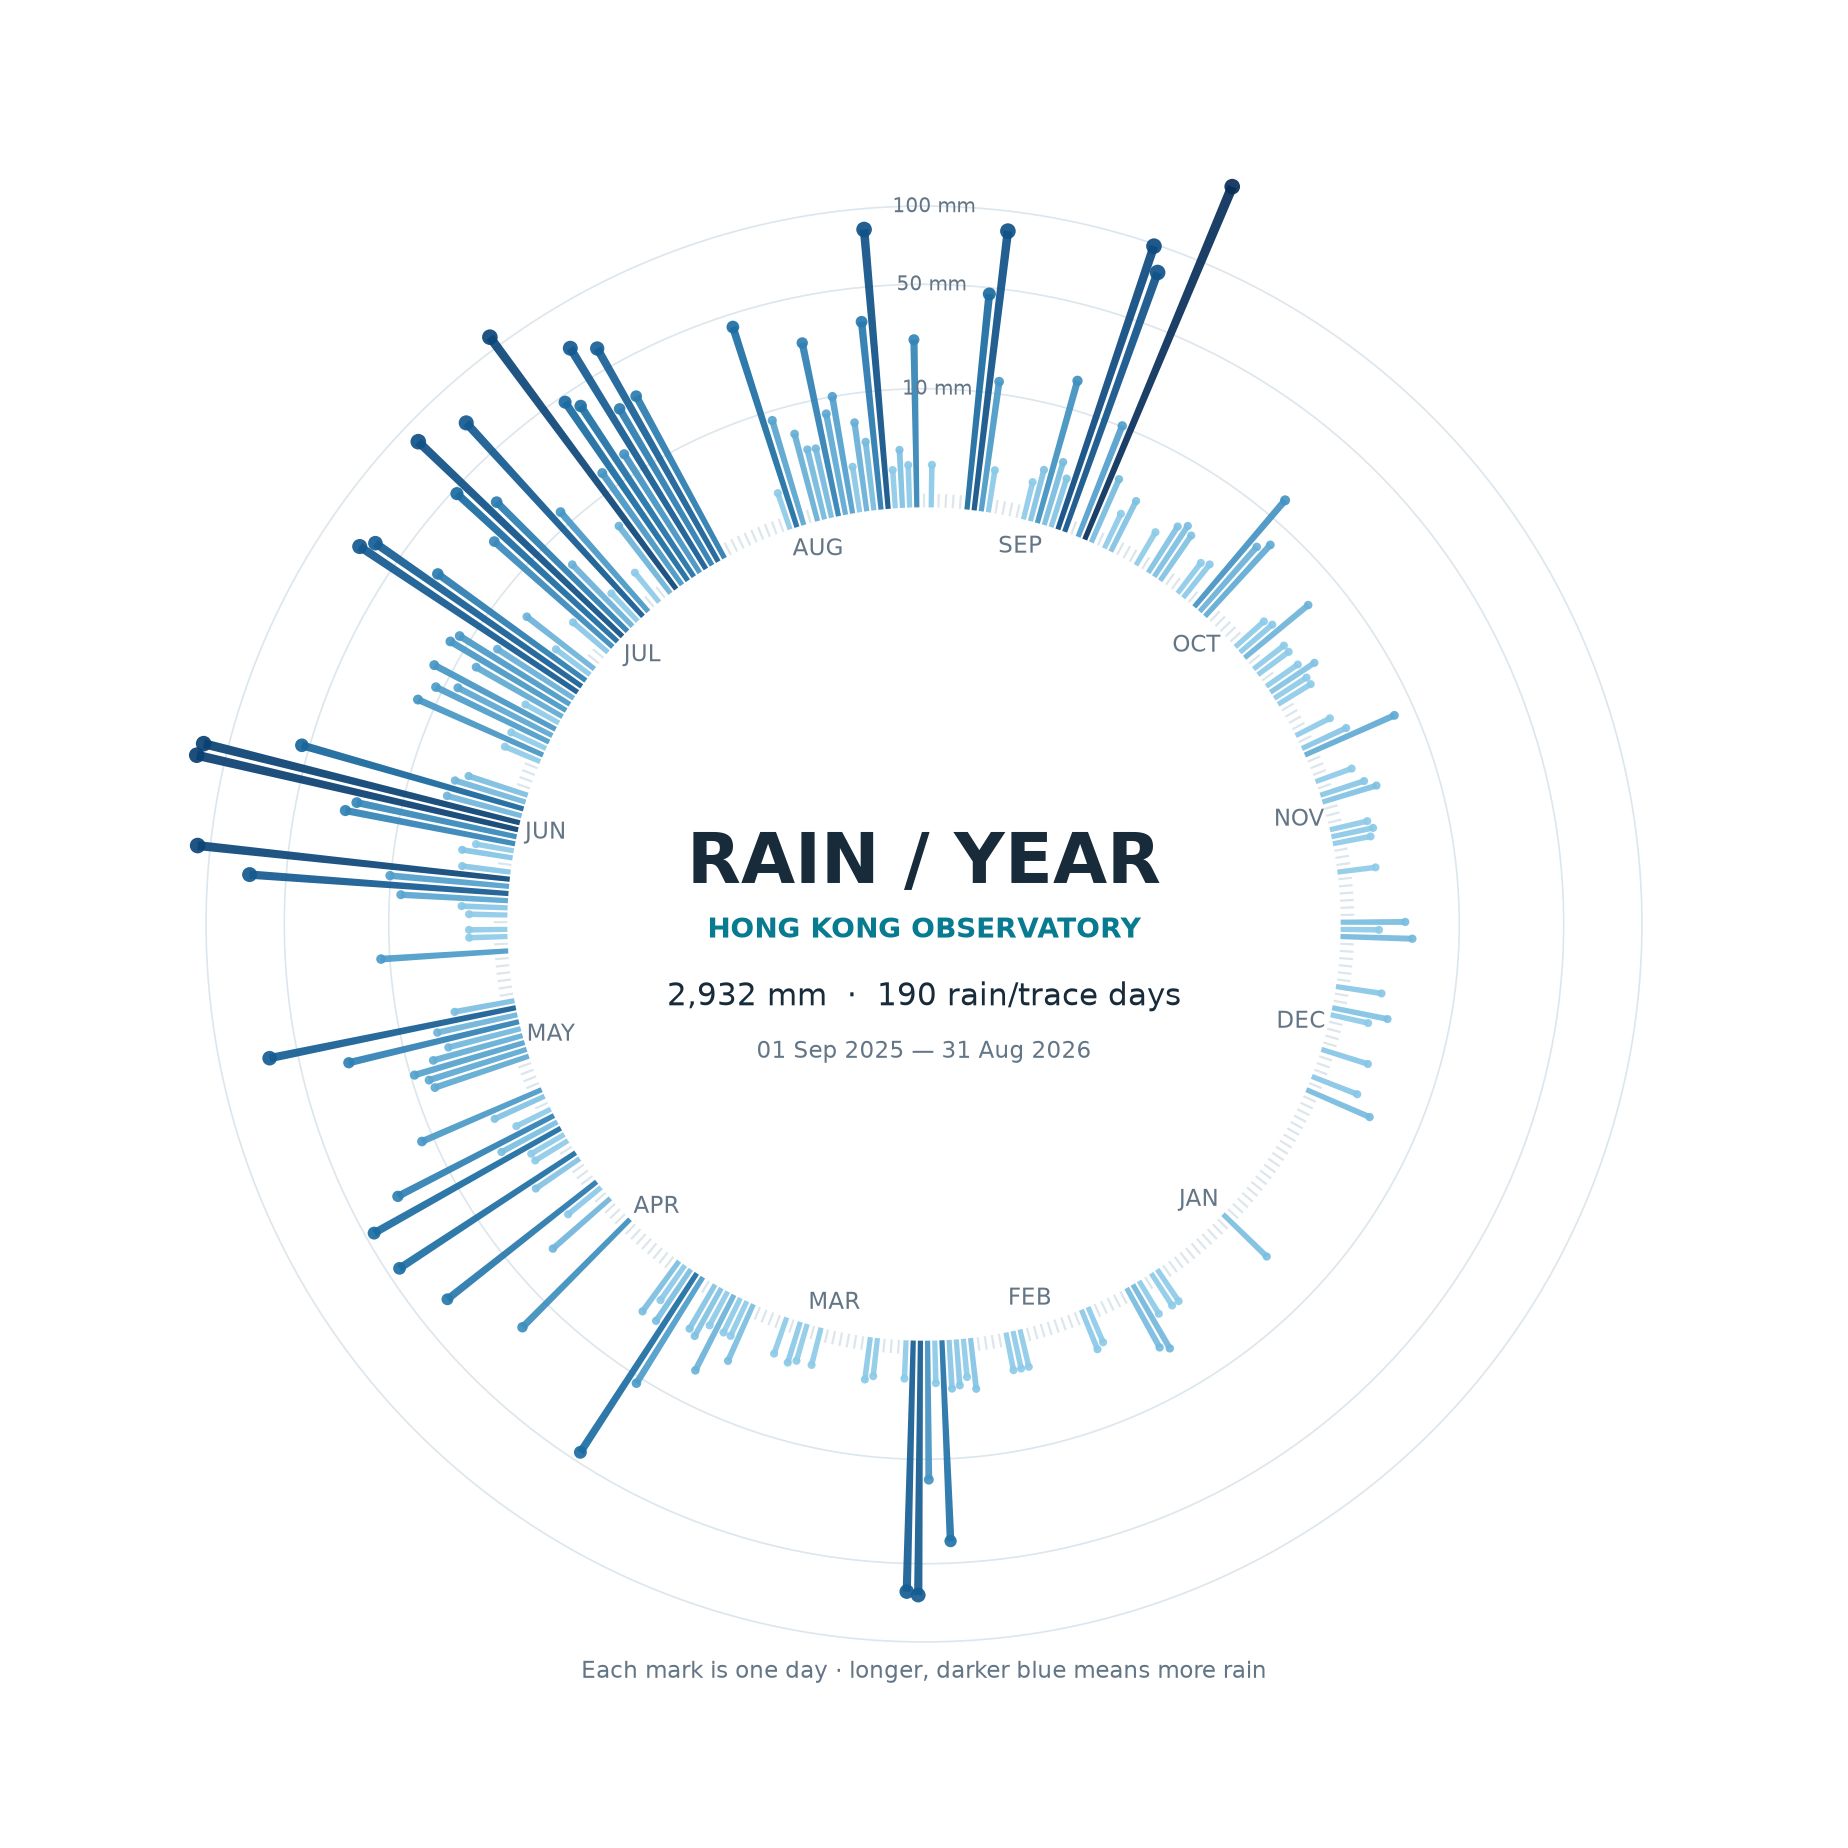
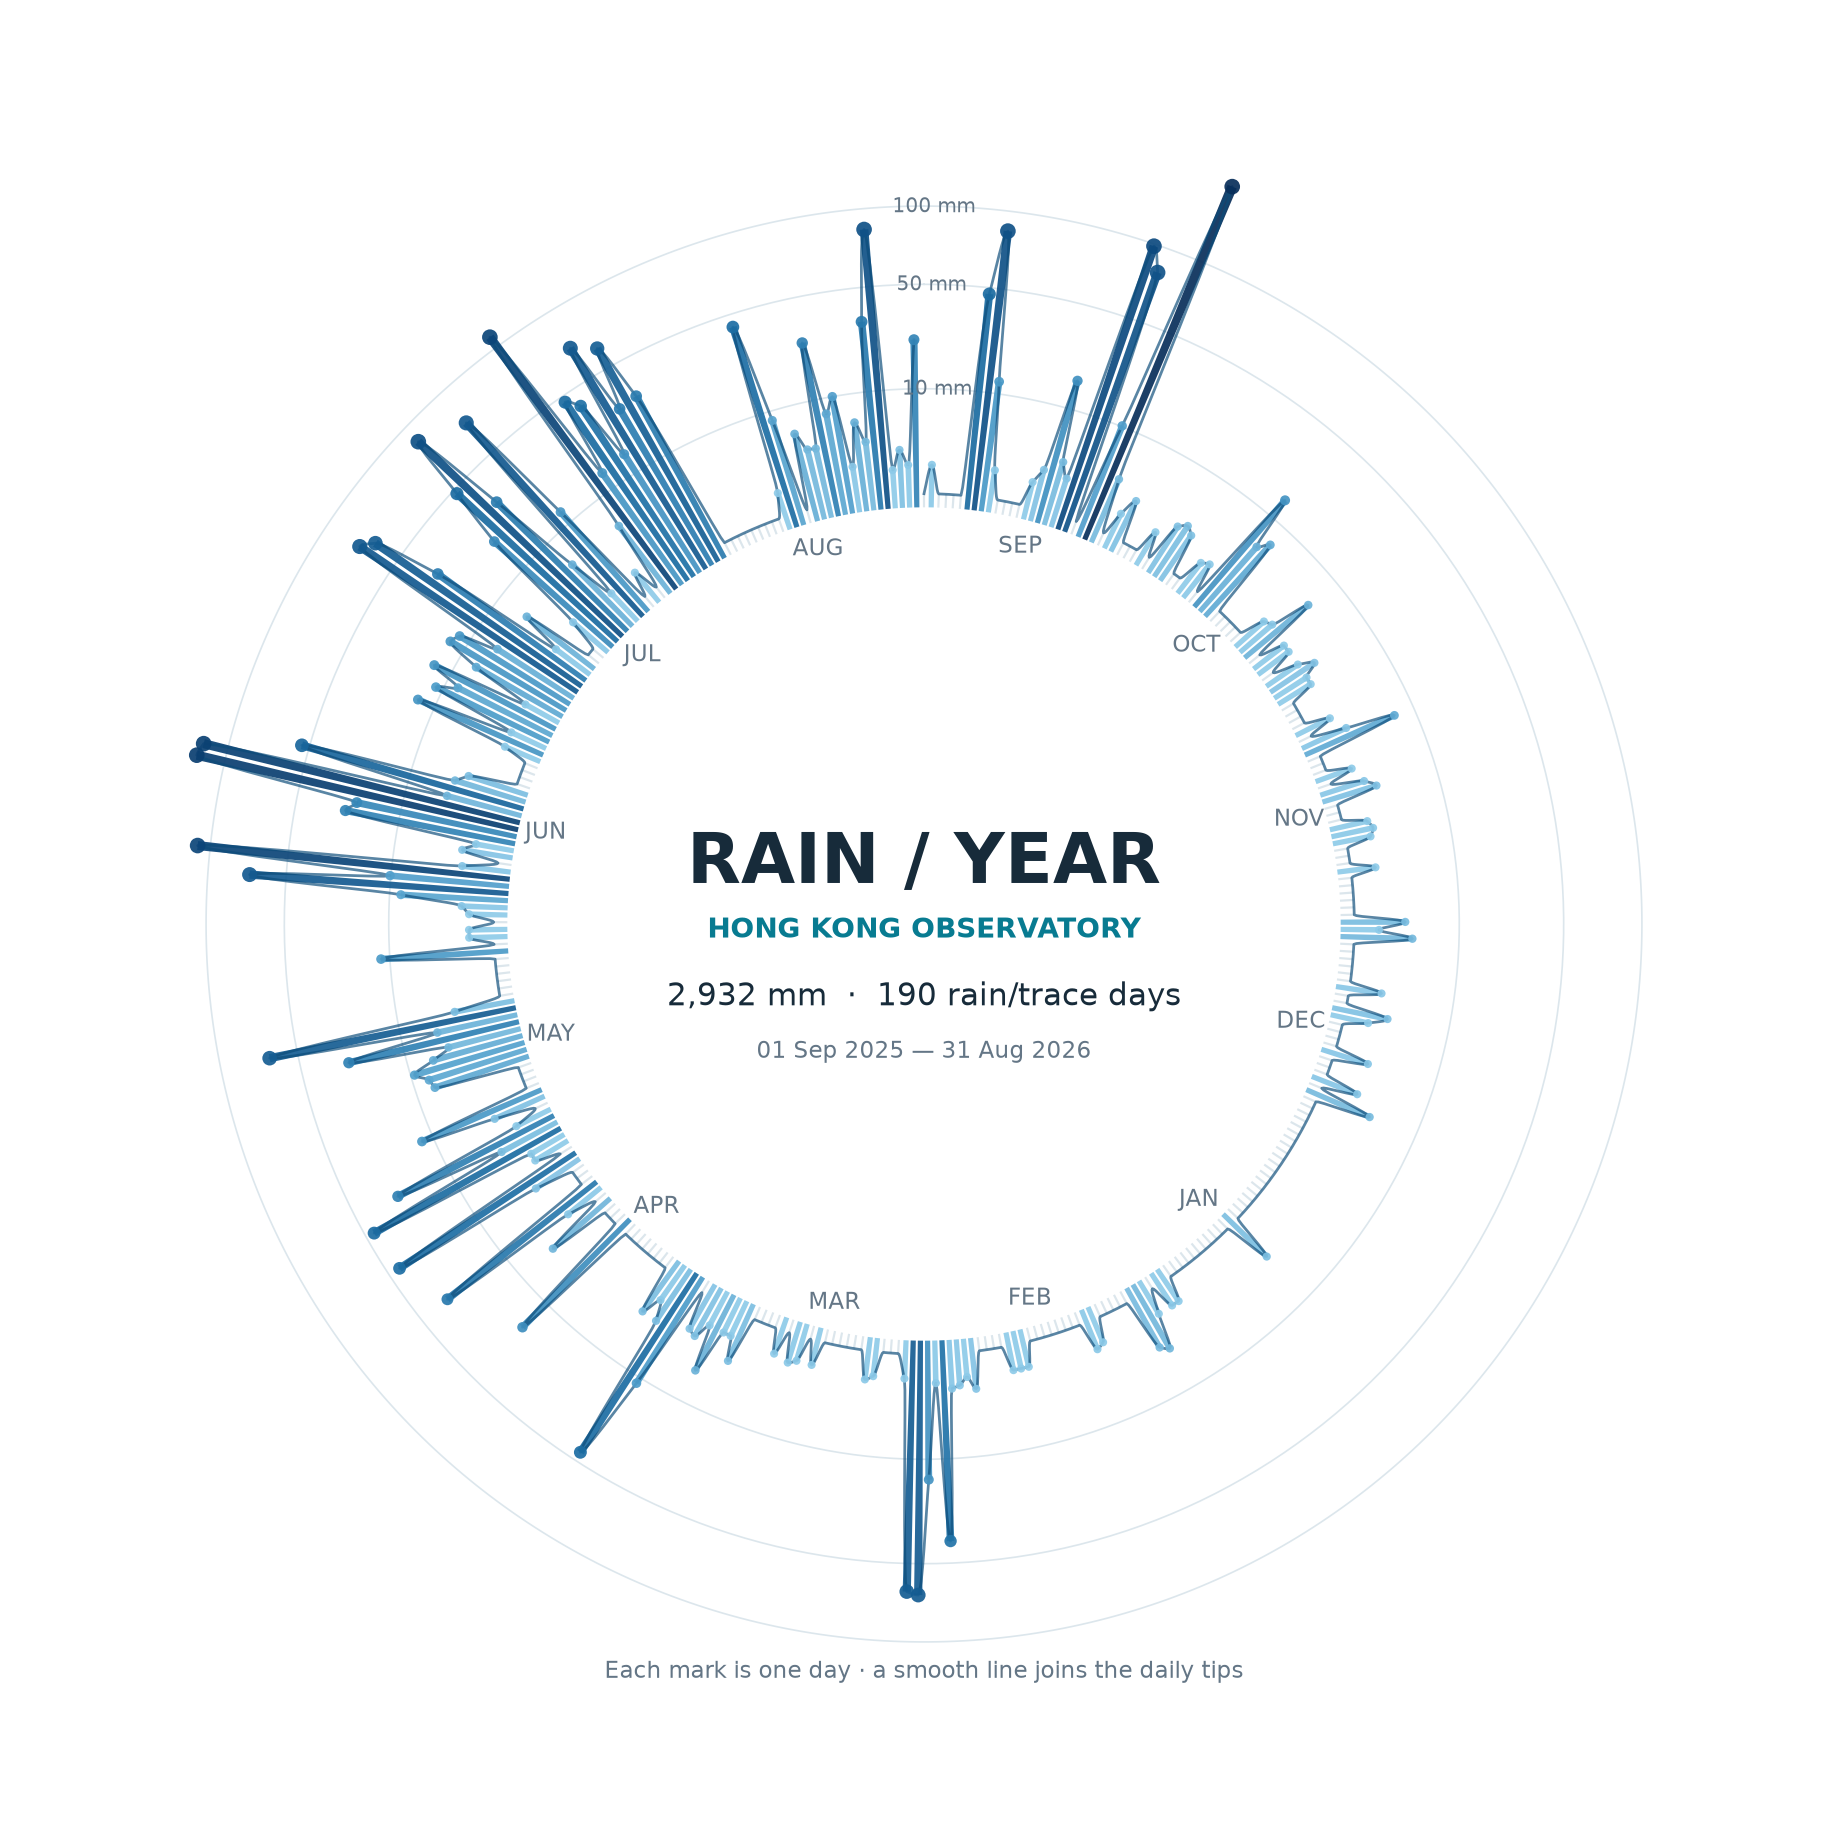
Connect daily rainfall tips with a smooth line

diff --git a/site.py b/site.py
@@ -184,6 +184,17 @@ HTML = r"""<!doctype html>
       opacity: 1;
       transition-delay: var(--delay);
     }
+    .rain-curve {
+      fill: none;
+      stroke: #0b4b79;
+      stroke-width: 1.7;
+      stroke-linecap: round;
+      stroke-linejoin: round;
+      opacity: 0;
+      pointer-events: none;
+      transition: opacity 160ms ease;
+    }
+    .rain-curve.active { opacity: .72; transition-delay: 360ms; }
     .hit-sector { fill: transparent; cursor: pointer; }
     .hit-sector:focus-visible { fill: #1472aa12; outline: none; }
     .center-copy { text-anchor: middle; pointer-events: none; }
@@ -266,7 +277,7 @@ HTML = r"""<!doctype html>
       .center-main { font-size: 54px; }
     }
     @media (prefers-reduced-motion: reduce) {
-      .rain-bar, .month-label { transition-duration: 0ms; transition-delay: 0ms !important; }
+      .rain-bar, .rain-curve, .month-label { transition-duration: 0ms; transition-delay: 0ms !important; }
     }
   </style>
 </head>
@@ -277,7 +288,7 @@ HTML = r"""<!doctype html>
       <p class="edition" id="period"></p>
     </header>
     <h1>A year of rain, revealed month by month.</h1>
-    <p class="intro">Move your cursor around the circle. A month’s straight rain marks rise from the inner ring: longer marks and deeper blue tips mean more rainfall. Select a month or reveal the whole year.</p>
+    <p class="intro">Move your cursor around the circle. A month’s straight rain marks rise from the inner ring, while a smooth line connects their tips. Longer marks and deeper blue mean more rainfall. Select a month or reveal the whole year.</p>
     <section class="stage" aria-label="Interactive rainfall wheel">
       <div class="wheel-wrap">
         <svg id="wheel" viewBox="0 0 1000 1000" role="img" aria-label="365-day circular rainfall chart. Hover or select a month, or show every month, to reveal straight daily marks."></svg>
@@ -303,6 +314,8 @@ HTML = r"""<!doctype html>
     const CX = 500, CY = 500, BASE = 282, MAX_LENGTH = 170;
     const TWO_PI = Math.PI * 2;
     const barsByMonth = data.months.map(() => []);
+    const curvesByMonth = [];
+    const boundaryCurves = [];
     const labels = [];
     const buttons = [];
     let allButton;
@@ -349,9 +362,12 @@ HTML = r"""<!doctype html>
       if (visible !== null) {
         if (visible === "all") {
           barsByMonth.flat().forEach(bar => bar.classList.remove("active"));
+          curvesByMonth.forEach(curve => curve.classList.remove("active"));
+          boundaryCurves.forEach(curve => curve.classList.remove("active"));
           labels.forEach(label => label.classList.remove("active"));
         } else {
           barsByMonth[visible].forEach(bar => bar.classList.remove("active"));
+          curvesByMonth[visible].classList.remove("active");
           labels[visible].classList.remove("active");
         }
       }
@@ -367,22 +383,25 @@ HTML = r"""<!doctype html>
       }
       if (index === "all") {
         barsByMonth.flat().forEach(bar => bar.classList.add("active"));
+        curvesByMonth.forEach(curve => curve.classList.add("active"));
+        boundaryCurves.forEach(curve => curve.classList.add("active"));
         labels.forEach(label => label.classList.add("active"));
         document.getElementById("center-main").textContent = "A YEAR";
         document.getElementById("center-sub").textContent = "365 days · all months visible";
         document.getElementById("side-title").textContent = "The whole year";
-        document.getElementById("side-copy").textContent = "Each straight mark is one day. Its length shows rainfall; blue deepens from the root to the tip and with the amount.";
+        document.getElementById("side-copy").textContent = "Each straight mark is one day. A smooth line joins their tips; length and deeper blue show more rainfall.";
         document.getElementById("side-number").textContent = data.total.toLocaleString() + " mm";
         document.getElementById("side-unit").textContent = "annual rainfall";
         return;
       }
       const month = data.months[index];
       barsByMonth[index].forEach(bar => bar.classList.add("active"));
+      curvesByMonth[index].classList.add("active");
       labels[index].classList.add("active");
       document.getElementById("center-main").textContent = month.short;
       document.getElementById("center-sub").textContent = month.year + " · " + month.rainDays + " rain / trace days";
       document.getElementById("side-title").textContent = month.name + " " + month.year;
-      document.getElementById("side-copy").textContent = "Each straight mark is one calendar day. Its length and darker blue tip both follow rainfall.";
+      document.getElementById("side-copy").textContent = "Each straight mark is one calendar day. A smooth line connects their tips; its shape follows the daily values.";
       document.getElementById("side-number").textContent = month.total.toLocaleString() + " mm";
       document.getElementById("side-unit").textContent = "monthly rainfall";
     }
@@ -425,6 +444,44 @@ HTML = r"""<!doctype html>
         style: "--delay:" + rank * 12 + "ms"
       });
       barsByMonth[day.month].push(line);
+    });
+
+    // Shape-preserving cubic interpolation passes through every displayed tip.
+    const tipRadii = data.days.map(day => BASE + (day.rain === 0 ? 9 :
+      14 + MAX_LENGTH * Math.sqrt(day.rain) / maxRoot));
+    const changes = tipRadii.slice(1).map((radius, index) => radius - tipRadii[index]);
+    const slopes = tipRadii.map((_, index) => {
+      if (index === 0) return changes[0];
+      if (index === tipRadii.length - 1) return changes[changes.length - 1];
+      const before = changes[index - 1], after = changes[index];
+      return before * after > 0 ? Math.sign(after) * Math.min(Math.abs(before), Math.abs(after)) : 0;
+    });
+    function smoothSegment(index) {
+      const first = point(index / data.days.length * TWO_PI, tipRadii[index]);
+      let path = `M ${first[0]} ${first[1]}`;
+      for (let step = 1; step <= 8; step++) {
+        const t = step / 8, t2 = t * t, t3 = t2 * t;
+        const radius = (2 * t3 - 3 * t2 + 1) * tipRadii[index]
+          + (t3 - 2 * t2 + t) * slopes[index]
+          + (-2 * t3 + 3 * t2) * tipRadii[index + 1]
+          + (t3 - t2) * slopes[index + 1];
+        const [x, y] = point((index + t) / data.days.length * TWO_PI, radius);
+        path += ` L ${x} ${y}`;
+      }
+      return path;
+    }
+    const curveLayer = add(svg, "g", {"aria-hidden": "true"});
+    data.months.forEach(month => {
+      let path = "";
+      for (let index = month.start; index < month.end; index++) {
+        path += smoothSegment(index) + " ";
+      }
+      curvesByMonth.push(add(curveLayer, "path", {d: path, class: "rain-curve"}));
+      if (month.end < data.days.length - 1) {
+        boundaryCurves.push(add(curveLayer, "path", {
+          d: smoothSegment(month.end), class: "rain-curve"
+        }));
+      }
     });
 
     add(svg, "text", {x: CX, y: CY - 64, class: "center-copy center-kicker"})

diff --git a/plot.py b/plot.py
@@ -46,6 +46,33 @@ def month_positions(dates: pd.Series) -> list[tuple[float, str]]:
     return positions
 
 
+def smooth_tip_curve(radii: np.ndarray, samples_per_day: int = 8) -> tuple[np.ndarray, np.ndarray]:
+    """Interpolate between daily tips without inventing higher peaks or lower troughs."""
+    differences = np.diff(radii)
+    slopes = np.zeros_like(radii)
+    slopes[0], slopes[-1] = differences[0], differences[-1]
+    for index in range(1, len(radii) - 1):
+        before, after = differences[index - 1], differences[index]
+        if before * after > 0:
+            slopes[index] = np.sign(after) * min(abs(before), abs(after))
+
+    day_positions = []
+    smooth_radii = []
+    for index in range(len(radii) - 1):
+        for fraction in np.linspace(0, 1, samples_per_day, endpoint=False):
+            squared = fraction * fraction
+            cubed = squared * fraction
+            radius = ((2 * cubed - 3 * squared + 1) * radii[index]
+                      + (cubed - 2 * squared + fraction) * slopes[index]
+                      + (-2 * cubed + 3 * squared) * radii[index + 1]
+                      + (cubed - squared) * slopes[index + 1])
+            day_positions.append(index + fraction)
+            smooth_radii.append(radius)
+    day_positions.append(len(radii) - 1)
+    smooth_radii.append(radii[-1])
+    return np.asarray(day_positions), np.asarray(smooth_radii)
+
+
 def plot_rainfall_wheel(df: pd.DataFrame, output_image: Path) -> None:
     """Turn one year of daily rainfall into a circular field of rain marks."""
     days = len(df)
@@ -77,6 +104,11 @@ def plot_rainfall_wheel(df: pd.DataFrame, output_image: Path) -> None:
             ax.scatter(angle, baseline + length, s=7 + min(amount, 80) * 0.24,
                        color=colour, alpha=0.92, edgecolors="none", zorder=4)
 
+    tip_radii = baseline + np.where(rain > 0, lengths, 0.10)
+    day_positions, smooth_radii = smooth_tip_curve(tip_radii)
+    ax.plot(2 * np.pi * day_positions / days, smooth_radii, color="#0b4b79",
+            linewidth=0.9, alpha=0.68, zorder=3)
+
     # Fine circular guides make magnitude readable without dominating the image.
     for value in (10, 50, 100):
         radius = baseline + 0.25 + 2.55 * np.sqrt(value) / maximum
@@ -103,7 +135,7 @@ def plot_rainfall_wheel(df: pd.DataFrame, output_image: Path) -> None:
             transform=ax.transAxes, color=INK, fontsize=10, ha="center")
     ax.text(0.5, 0.421, f"{start} — {end}", transform=ax.transAxes,
             color=MUTED, fontsize=7.5, ha="center")
-    ax.text(0.5, 0.055, "Each mark is one day · longer, darker blue means more rain",
+    ax.text(0.5, 0.055, "Each mark is one day · a smooth line joins the daily tips",
             transform=ax.transAxes, color=MUTED, fontsize=7.5, ha="center")
 
     ax.set_ylim(0, baseline + 3.15)

diff --git a/PROCESS.md b/PROCESS.md
@@ -2,7 +2,7 @@
 
 ## Tools
 
-I used Codex to inspect the committed Hong Kong Observatory CSV, develop and revise the Python plot, build a month-by-month interactive version, and check the result against the assignment requirements. I wanted a more artistic chart and then asked for a white background and an all-blue scale in which taller marks are darker. For the website, I asked that the circle start empty and reveal a month's bars from their roots when someone hovers nearby. After reviewing a curved-line preview, I chose straight lines and asked Codex to add a Show All option so the whole year can appear at once. I reviewed the generated images and gave feedback on their appearance. Codex used `uv` to run the scripts and the assignment's checker to verify the repository structure.
+I used Codex to inspect the committed Hong Kong Observatory CSV, develop and revise the Python plot, build a month-by-month interactive version, and check the result against the assignment requirements. I wanted a more artistic chart and then asked for a white background and an all-blue scale in which taller marks are darker. For the website, I asked that the circle start empty and reveal a month's bars from their roots when someone hovers nearby. After reviewing a curved-line preview, I chose straight bars and asked Codex to add a Show All option so the whole year can appear at once. I later asked for a separate smooth line connecting the daily bar tips while leaving their measured heights unchanged. I reviewed the generated images and gave feedback on their appearance. Codex used `uv` to run the scripts and the assignment's checker to verify the repository structure.
 
 ## Kept
 

diff --git a/README.md b/README.md
@@ -12,7 +12,7 @@ The numbers come from the [Hong Kong Observatory's daily rainfall CSV](https://d
 
 ## What the picture shows
 
-This image uses the latest 365 calendar days in the committed file: 1 September 2025 to 31 August 2026. Each thin mark is a day. More rainfall makes the mark longer and its blue darker; pale inner ticks mark dry days. The period totals about 2,932 mm over 190 days with measurable or trace rainfall. The circular format makes clusters and quiet stretches easy to see, but it compresses the numerical scale with a square-root transformation and does not show when during a day the rain fell. It also describes one observing station, not every part of Hong Kong.
+This image uses the latest 365 calendar days in the committed file: 1 September 2025 to 31 August 2026. Each thin mark is a day. More rainfall makes the mark longer and its blue darker; pale inner ticks mark dry days. A fine, smoothly interpolated line connects the daily tips, helping the eye follow changes without adding new measurements. The period totals about 2,932 mm over 190 days with measurable or trace rainfall. The circular format makes clusters and quiet stretches easy to see, but it compresses the numerical scale with a square-root transformation and does not show when during a day the rain fell. It also describes one observing station, not every part of Hong Kong.
 
 ## Interactive version
 
